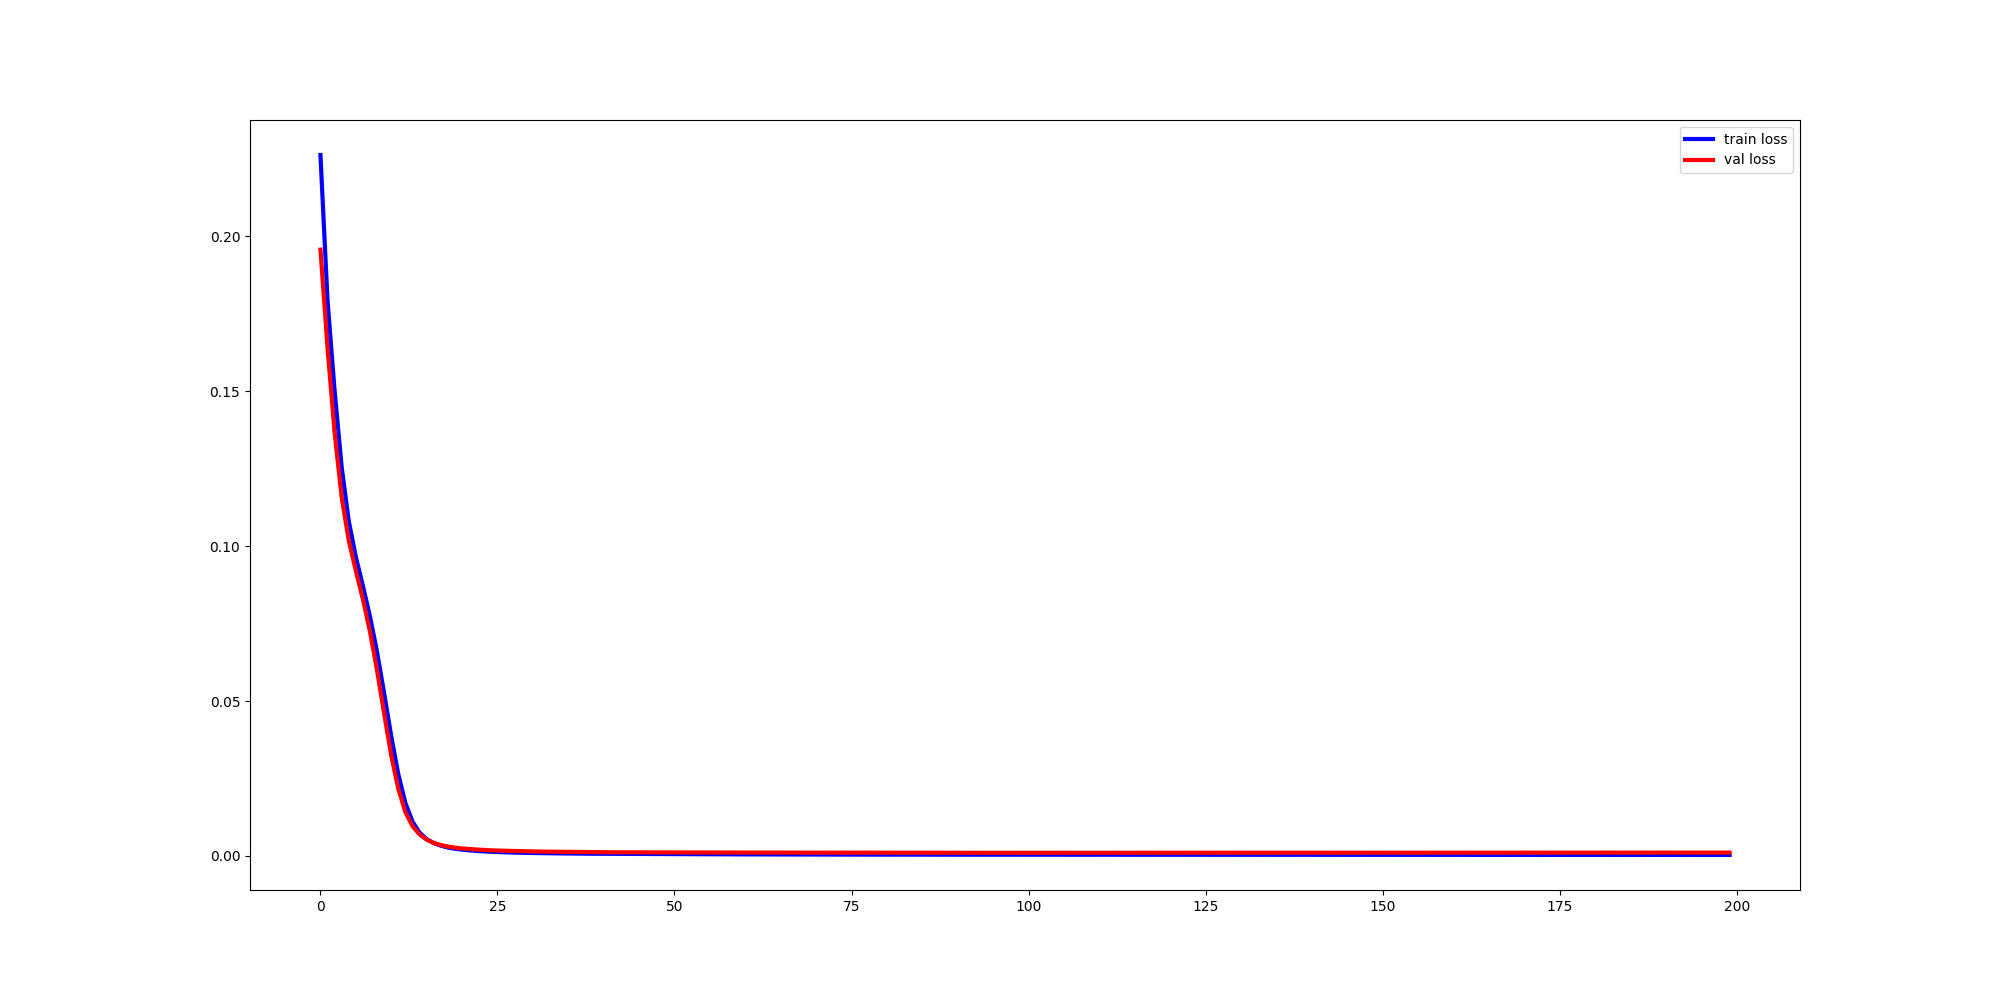
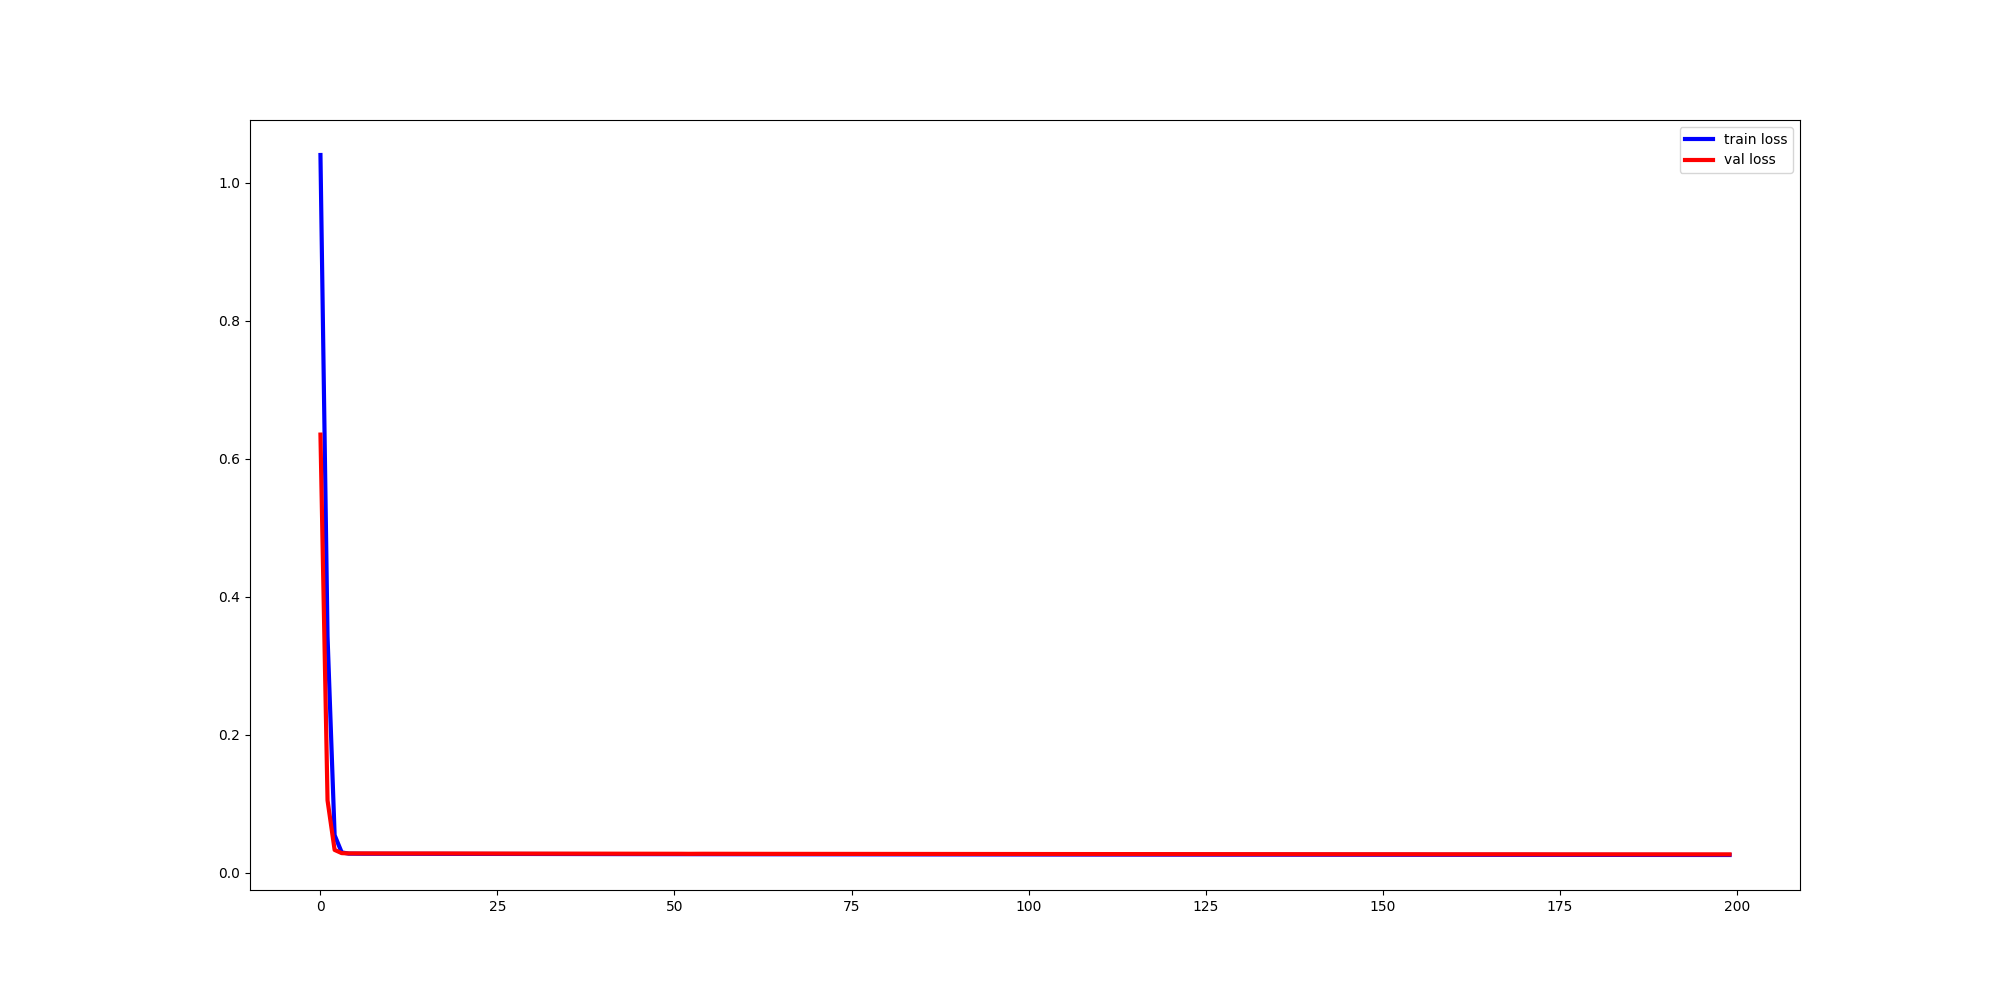
back to old loss + param tunning

Changed region(s): [[0.155, 0.217, 0.868, 0.868]]

diff --git a/CNN_symbols.py b/CNN_symbols.py
@@ -9,7 +9,7 @@ gpu_path = ''
 class CNN_symbols:
 
     def __init__(self, xtrain, ytrain, xtest, ytest, xvalidation, yvalidation,
-                 batch_size=200, epochs=200, learning_rate=0.1,
+                 batch_size=300, epochs=200, learning_rate=0.1,
                  build_model=True, save_model=True, draw_model=True,
                  show_summary=True, show_verbose=True):
 
@@ -51,6 +51,7 @@ class CNN_symbols:
         self.conv2 = tf.keras.layers.Conv1D(
            filters=2,kernel_size=32, activation='relu',padding='same', name='Conv2')(self.conv1)
 
+    
 
 
         #self.conv3 = tf.keras.layers.Conv1D(
@@ -63,14 +64,15 @@ class CNN_symbols:
 
         
 
-        self.residual = tf.keras.layers.Conv1D(filters=2,kernel_size=1,activation='linear')(self.residual)
+        #self.residual = tf.keras.layers.Conv1D(filters=2,kernel_size=1,activation='linear')(self.residual)
+        
+        self.results = tf.keras.layers.add([self.conv2,self.residual])
+        
+        self.finalresults = tf.keras.layers.Flatten(name='Flatten1')(self.results)
+        
+        #self.flatten2 = tf.keras.layers.Flatten(name='Flatten2')(self.residual)
         
         
-        self.flatten1 = tf.keras.layers.Flatten(name='Flatten1')(self.conv2)
-        
-        self.flatten2 = tf.keras.layers.Flatten(name='Flatten2')(self.residual)
-        
-        self.results = tf.keras.layers.add([self.flatten1,self.flatten2])
 
         
         #self.dense = tf.keras.layers.Dense(units=2**10,activation='relu',name='dense')(self.results)
@@ -80,14 +82,14 @@ class CNN_symbols:
         #self.results = tf.keras.layers.BatchNormalization()(self.results)
         
         self.output_layer = tf.keras.layers.Dense(
-           units=64, activation='linear', name='Output')(self.results)
+           units=64, activation='linear', name='Output')(self.finalresults)
 
         self.my_model = tf.keras.models.Model(
             inputs=self.input_layer, outputs=self.output_layer)
 
         #self.my_loss = tf.keras.losses.MeanAbsoluteError()
         
-        self.my_loss = constellation_loss_function(alpha=1.1)
+        self.my_loss = constellation_loss_function(alpha=5)
 
         self.my_optimizer = tf.keras.optimizers.SGD(lr=self.learning_rate)
 

diff --git a/generate_data_finaly.py b/generate_data_finaly.py
@@ -9,12 +9,12 @@ import time
 
 start_time = time.time()
 
-dg = DataGenerator(T=65,N=2**11,number_symbols=32,Length=1000e3,Bandwith=10e9)
+dg = DataGenerator(T=40,N=2**10,number_symbols=32,Length=1000e3,Bandwith=10e9)
 
 dg.setter_noise0(sigma02=3.16e-20)
 
 
-params = Params(N=2**11,T=65,number_symbols=32,nz=500,Length=1000e3,Bandwith=10e9)
+params = Params(N=2**10,T=40,number_symbols=32,nz=500,Length=1000e3,Bandwith=10e9)
 
 nnet_gen = Generative_Model(params=params)
 
@@ -84,18 +84,18 @@ sb_train = symbols[0:7000]
 sb_test = symbols[7000:9000]
 sb_val = symbols[9000:]
 
-np.save(arr=fv_train,file="data/feature_vectors_train_10knoise_SNR35.npy")
-np.save(arr=fv_test,file="data/feature_vectors_test_10knoise_SNR35.npy")
-np.save(arr=fv_val,file="data/feature_vectors_val_10knoise_SNR35.npy")
+np.save(arr=fv_train,file="data/feature_vectors_train_10knoise_SNR35_10.npy")
+np.save(arr=fv_test,file="data/feature_vectors_test_10knoise_SNR35_10.npy")
+np.save(arr=fv_val,file="data/feature_vectors_val_10knoise_SNR35_10.npy")
 
-np.save(arr=bs_train,file="data/bit_signals_train_10knoise_SNR35.npy")
-np.save(arr=bs_test,file="data/bit_signals_test_10knoise_SNR35.npy")
-np.save(arr=bs_val,file="data/bit_signals_val_10knoise_SNR35.npy")
+np.save(arr=bs_train,file="data/bit_signals_train_10knoise_SNR35_10.npy")
+np.save(arr=bs_test,file="data/bit_signals_test_10knoise_SNR35_10.npy")
+np.save(arr=bs_val,file="data/bit_signals_val_10knoise_SNR35_10.npy")
 
-np.save(arr=lb_train,file="data/labels_train_10knoise_SNR35.npy")
-np.save(arr=lb_test,file="data/labels_test_10knoise_SNR35.npy")
-np.save(arr=lb_val,file="data/labels_val_10knoise_SNR35.npy")
+np.save(arr=lb_train,file="data/labels_train_10knoise_SNR35_10.npy")
+np.save(arr=lb_test,file="data/labels_test_10knoise_SNR35_10.npy")
+np.save(arr=lb_val,file="data/labels_val_10knoise_SNR35_10.npy")
 
-np.save(arr=sb_train,file="data/symbols_train_10knoise_SNR35.npy")
-np.save(arr=sb_test,file="data/symbols_test_10knoise_SNR35.npy")
-np.save(arr=sb_val,file="data/symbols_val_10knoise_SNR35.npy")
+np.save(arr=sb_train,file="data/symbols_train_10knoise_SNR35_10.npy")
+np.save(arr=sb_test,file="data/symbols_test_10knoise_SNR35_10.npy")
+np.save(arr=sb_val,file="data/symbols_val_10knoise_SNR35_10.npy")

diff --git a/main_symbols_Predictor.py b/main_symbols_Predictor.py
@@ -17,20 +17,20 @@ from CNN_symbols import CNN_symbols
 
 gpu_path = ''
 
-xtrain = np.load(gpu_path+'data/feature_vectors_train_10knoise_SNR35.npy')
-ytrain = np.load(gpu_path+'data/labels_train_10knoise_SNR35.npy')
-btrain = np.load(gpu_path+'data/bit_signals_train_10knoise_SNR35.npy')
-sbtrain=np.load(gpu_path+'data/symbols_train_10knoise_SNR35.npy')
+xtrain = np.load(gpu_path+'data/feature_vectors_train_10knoise_SNR35_10.npy')
+ytrain = np.load(gpu_path+'data/labels_train_10knoise_SNR35_10.npy')
+btrain = np.load(gpu_path+'data/bit_signals_train_10knoise_SNR35_10.npy')
+sbtrain=np.load(gpu_path+'data/symbols_train_10knoise_SNR35_10.npy')
 
-xtest = np.load(gpu_path+'data/feature_vectors_test_10knoise_SNR35.npy')
-ytest = np.load(gpu_path+'data/labels_test_10knoise_SNR35.npy')
-btest = np.load(gpu_path+'data/bit_signals_test_10knoise_SNR35.npy')
-sbtest=np.load(gpu_path+'data/symbols_test_10knoise_SNR35.npy')
+xtest = np.load(gpu_path+'data/feature_vectors_test_10knoise_SNR35_10.npy')
+ytest = np.load(gpu_path+'data/labels_test_10knoise_SNR35_10.npy')
+btest = np.load(gpu_path+'data/bit_signals_test_10knoise_SNR35_10.npy')
+sbtest=np.load(gpu_path+'data/symbols_test_10knoise_SNR35_10.npy')
 
-xvalidation = np.load(gpu_path+'data/feature_vectors_val_10knoise_SNR35.npy')
-yvalidation = np.load(gpu_path+'data/labels_val_10knoise_SNR35.npy')
-bvalidation = np.load(gpu_path+'data/bit_signals_val_10knoise_SNR35.npy')
-sbval=np.load(gpu_path+'data/symbols_val_10knoise_SNR35.npy')
+xvalidation = np.load(gpu_path+'data/feature_vectors_val_10knoise_SNR35_10.npy')
+yvalidation = np.load(gpu_path+'data/labels_val_10knoise_SNR35_10.npy')
+bvalidation = np.load(gpu_path+'data/bit_signals_val_10knoise_SNR35_10.npy')
+sbval=np.load(gpu_path+'data/symbols_val_10knoise_SNR35_10.npy')
 
 
 sbtrain.shape = (-1,64)
@@ -93,9 +93,5 @@ for i in range(len(ypred)):
 BER = np.mean(np.abs(b_hat - bvalidation))
 
 # BER = np.mean(np.abs(b_hat - btrain))
-
-
-print(sbval)
-print(ypred)
 
 print(BER)

diff --git a/custom_loss_function.py b/custom_loss_function.py
@@ -24,11 +24,11 @@ def constellation_loss_function(alpha):
         
         relu_3 = tf.keras.activations.relu(distance_to_centers,threshold=0.1)
         
-        #distance_to_centers = relu_1 - relu_2 + alpha * relu_3
+        distance_to_centers = relu_1 - relu_2 + alpha * relu_3
 
-        distance_to_centers =  alpha * relu_3
+        #distance_to_centers =  alpha * relu_3
 
-        # loss = tf.math.reduce_mean(tf.square(distance_to_centers))
+        #loss = tf.math.reduce_mean(tf.square(distance_to_centers))
         
         loss = tf.math.reduce_mean(distance_to_centers)
 

diff --git a/main_check_end_to_end_zero_noise.py b/main_check_end_to_end_zero_noise.py
@@ -4,8 +4,8 @@ from channel import Channel
 
 Bandwith = 10*1e9
 L = 1000*1e3
-T = 65
-N = 2**11
+T = 40
+N = 2**10
 p = 0.5
 Nb = 32*4
 M=16
